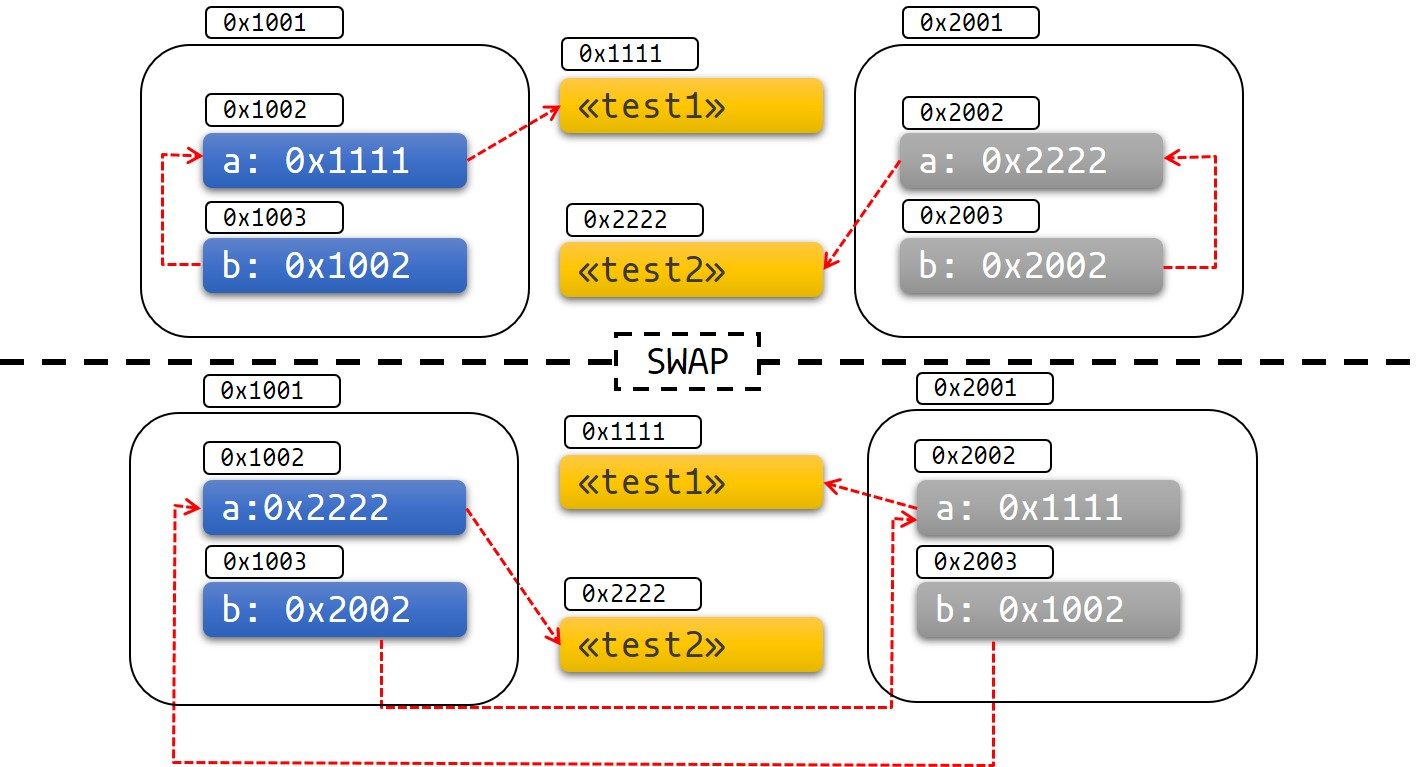
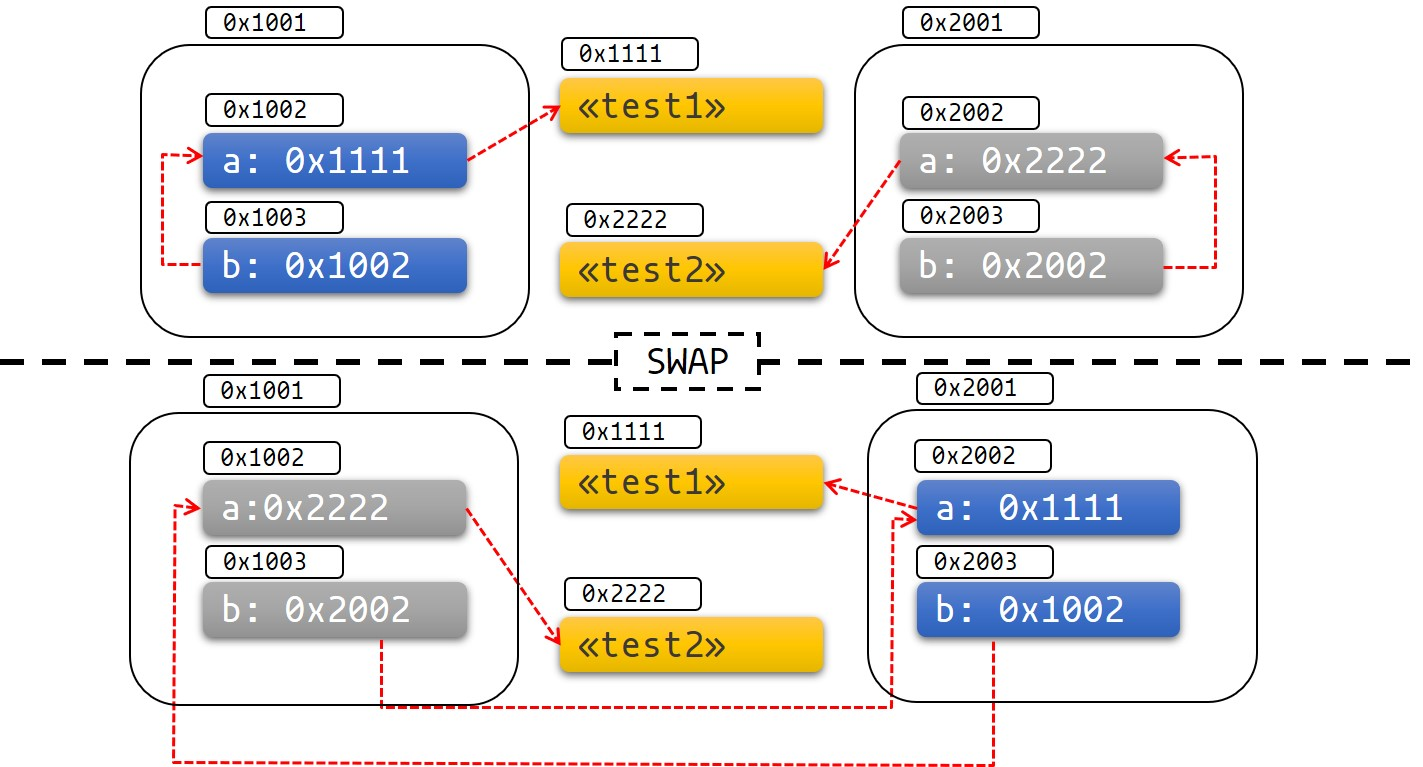
made swap diagram a bit clearer (i hope)

diff --git a/src/4_pin.md b/src/4_pin.md
@@ -30,14 +30,13 @@ This naming scheme is Rust deliberately testing if you're too tired to safely im
 `!Unpin` it's a good sign that it's time to lay down the work and start over
 tomorrow with a fresh mind.
 
-> This is of course a joke. There are very valid reasons for the names
+> That was of course a joke. There are very valid reasons for the names
 > that were chosen. If you want you can read a bit of the discussion from the
 > [internals thread][internals_unpin]. The best takeaway from there in my eyes
 > is this quote from `tmandry`:
 >
 > _Think of taking a thumbtack out of a cork board so you can tweak how a flyer looks. For Unpin types, this unpinning is directly supported by the type; you can do this implicitly. You can even swap out the object with another before you put the pin back. For other types, you must be much more careful._
 
-An object with the `Unpin` marker can move.
 
 For the next paragraph we'll rename these markers to:
 
@@ -51,9 +50,9 @@ It just makes it much easier to talk about them.
 
 2. Getting a `&mut T` to a pinned pointer requires unsafe if `T: MustStay`. In other words: requiring a pinned pointer to a type which is `MustStay` prevents the _user_ of that API from moving that value unless it choses to write `unsafe` code.
 
-3. Pinning does nothing special with that memory like putting it into some "read only" memory or anything fancy. It only tells the compiler that some operations on this value should be forbidden.
+3. Pinning does nothing special with memory allocation like putting it into some "read only" memory or anything fancy. It only tells the compiler that some operations on this value should be forbidden.
 
-4. Most standard library types implement `CanMove`. The same goes for most 
+4. Most standard library types implement `CanMove`. The same goes for most
 "normal" types you encounter in Rust. `Futures` and `Generators` are two
 exceptions.
 
@@ -63,12 +62,12 @@ cases in the API which are being explored.
 
 6. The implementation behind objects that are `MustStay` is most likely unsafe.
 Moving such a type can cause the universe to crash. As of the time of writing
-this book, creating an reading fields of a self referential struct still requires `unsafe`.
+this book, creating and reading fields of a self referential struct still requires `unsafe`.
 
-1. You can add a `MustStay` bound on a type by nightly with a feature flag, or by adding `std::marker::PhantomPinned` to your type.
+7. You can add a `MustStay` bound on a type on nightly with a feature flag, or
+by adding `std::marker::PhantomPinned` to your type on stable.
 
-2. When Pinning, you can either pin a value to memory either on the stack or 
-on the heap.
+8. You can either pin a value to memory on the stack or on the heap.
 
 9. Pinning a `MustStay` pointer to the stack requires `unsafe`
 
